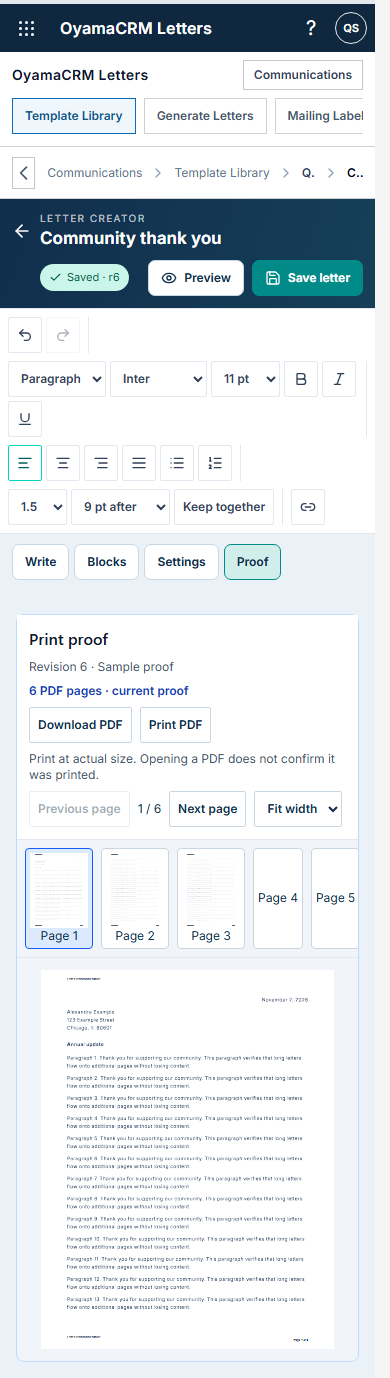
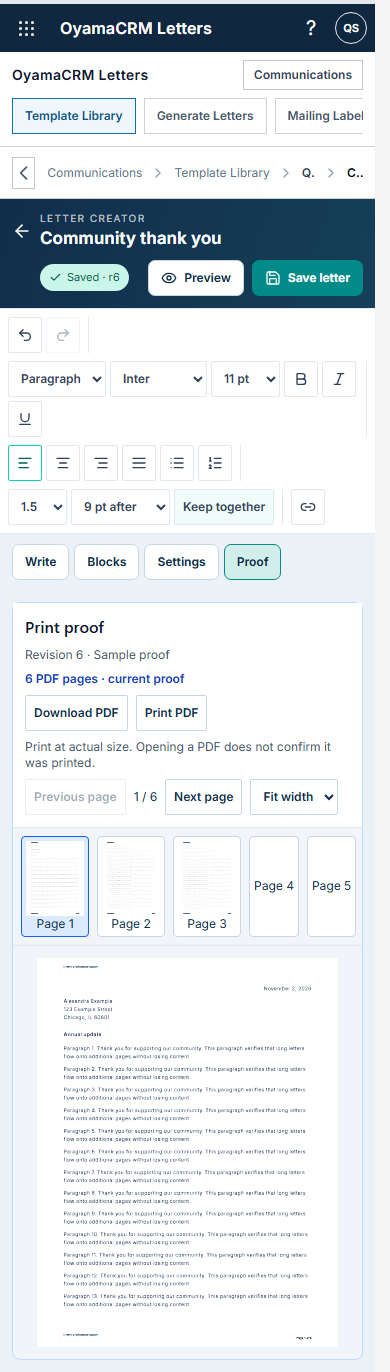
update

diff --git a/app/components/letters/OyamaLettersWorkspace.tsx b/app/components/letters/OyamaLettersWorkspace.tsx
@@ -15,6 +15,7 @@ import { openPdfPrintView } from "@/app/components/letters/pdf-print";
 import MatchingLabelsDownload from "@/app/components/letters/MatchingLabelsDownload";
 import MailMergeLabelsWorkspace from "@/app/components/letters/MailMergeLabelsWorkspace";
 import QRCode from "qrcode";
+import "./letter-proof-layout.css";
 import ProductionBuilder from "./production/ProductionBuilder";
 import {
   DEFAULT_BRANDING_SETTINGS,
@@ -1349,6 +1350,7 @@ function TemplateBuilder({ templateId }: { templateId?: string }) {
   const [editorPdfPageCount, setEditorPdfPageCount] = useState<number | null>(null);
   const [autoRefreshProof, setAutoRefreshProof] = useState(true);
   const editorPdfAbortRef = useRef<AbortController | null>(null);
+  const lastAutomaticProofRef = useRef<string | null>(null);
   const [canvasOverflowing, setCanvasOverflowing] = useState(false);
   const [aiComposerOpen, setAiComposerOpen] = useState(false);
   const [aiPrompt, setAiPrompt] = useState("");
@@ -1546,7 +1548,7 @@ function TemplateBuilder({ templateId }: { templateId?: string }) {
       constituentId,
       name: snapshot.name,
       printSubject: snapshot.printSubject,
-      printBody: snapshot.printBody,
+      printBody: typeof document === "undefined" ? snapshot.printBody : (() => { const element = document.createElement("div"); element.innerHTML = snapshot.printBody || "<p></p>"; return element.innerHTML; })(),
       printLayoutJson: snapshot.printLayoutJson,
       signatureBlockId: snapshot.signatureBlockId,
     });
@@ -2536,13 +2538,18 @@ function TemplateBuilder({ templateId }: { templateId?: string }) {
     && editorPdfFingerprint !== pdfPreviewFingerprint(draft, testConstituentId),
   );
 
+  const pendingProofFingerprint = pdfPreviewFingerprint(draft, testConstituentId);
   useEffect(() => {
     if (!autoRefreshProof || !editorPdfStale || editorPdfLoading || editorPdfError || !testConstituentId) return;
-    const timer = window.setTimeout(() => void openServerPdfPreview(testConstituentId, false), 1200);
+    if (lastAutomaticProofRef.current === pendingProofFingerprint) return;
+    const timer = window.setTimeout(() => {
+      lastAutomaticProofRef.current = pendingProofFingerprint;
+      void openServerPdfPreview(testConstituentId, false);
+    }, 1500);
     return () => window.clearTimeout(timer);
-    // Render only after the draft settles; failures require an explicit retry.
+    // The fingerprint captures all render inputs. UI-only state must not retrigger rendering.
     // eslint-disable-next-line react-hooks/exhaustive-deps
-  }, [autoRefreshProof, editorPdfStale, editorPdfLoading, editorPdfError, testConstituentId, draft]);
+  }, [autoRefreshProof, editorPdfStale, editorPdfLoading, editorPdfError, testConstituentId, pendingProofFingerprint]);
 
   useEffect(() => {
     const handleBeforeUnload = (event: BeforeUnloadEvent) => {
@@ -2951,7 +2958,8 @@ function TemplateBuilder({ templateId }: { templateId?: string }) {
             </details>
           </div>
         </aside>
-        <section className="order-2 min-w-0 overflow-auto rounded-md border border-slate-300 bg-slate-100 p-2 sm:p-5 lg:order-none">
+        <section className="letter-editor-proof-layout order-2 min-w-0 overflow-auto rounded-md border border-slate-300 bg-slate-100 p-2 sm:p-5 lg:order-none">
+          <div className="letter-writing-pane min-w-0">
           <div ref={canvasViewportRef} className="w-full min-w-0">
           <div className="mb-3 flex flex-wrap items-center gap-3 text-xs text-slate-700">
             <CheckField label="Fit canvas to width" checked={fitCanvas} onChange={setFitCanvas} />
@@ -3043,11 +3051,12 @@ function TemplateBuilder({ templateId }: { templateId?: string }) {
               Content continues below. Render the print proof to check automatic page breaks for the selected recipient, or use Add Page to choose a break.
             </div>
           ) : null}
-          <section aria-label="Print proof" className="mt-4 min-w-0 rounded-md border border-slate-300 bg-white p-3">
+          </div>
+          <section aria-label="Print proof" className="letter-inline-proof mt-4 min-w-0 rounded-md border border-slate-300 bg-white p-3">
             <div className="flex flex-wrap items-center justify-between gap-2">
               <div className="min-w-0">
                 <h2 className="text-sm font-semibold text-slate-900">Print proof</h2>
-                <p className="text-xs text-slate-600">Exact PDF pages for the selected recipient. Editing above uses a continuous canvas.</p>
+                <p className="text-xs text-slate-600">Exact PDF pages for the selected recipient. The writing canvas is continuous; this PDF shows printed page breaks.</p>
               </div>
               <Button onClick={() => void openServerPdfPreview(testConstituentId, false)} disabled={editorPdfLoading}>{editorPdfLoading ? "Rendering…" : "Refresh print proof"}</Button>
             </div>

diff --git a/app/components/letters/production/ProductionBuilder.tsx b/app/components/letters/production/ProductionBuilder.tsx
@@ -129,10 +129,11 @@ export default function ProductionBuilder({ templateId }: { templateId?: string 
     <div className="lb-studio">
       <aside className={`lb-left ${tab==="blocks"?"lb-mobile-visible":""}`}><BlockLibrary disabled={!editor} onInsert={insert}/><MergeFieldLibrary sections={sections} onInsert={token=>editor?.chain().focus().insertContent({type:"mergeField",attrs:{token:token.replace(/[{}]/g,"").trim()}}).run()}/></aside>
       <section className={`lb-canvas-column ${tab==="write"?"lb-mobile-visible":""}`}><div className="lb-canvas-caption"><span><FileText size={14}/>Document canvas</span><span>Continuous writing · PDF proof confirms page breaks</span></div><div className="lb-paper" style={{paddingTop:`${margins.top}in`,paddingBottom:`${margins.bottom}in`,paddingLeft:`${margins.left}in`,paddingRight:`${margins.right}in`}} onDragOver={event=>{if(event.dataTransfer.types.includes("application/oyama-letter-block"))event.preventDefault();}} onDrop={event=>{const block=event.dataTransfer.getData("application/oyama-letter-block");if(block){event.preventDefault();const position=editor?.view.posAtCoords({left:event.clientX,top:event.clientY});if(position)editor?.commands.setTextSelection(position.pos);insert(block);}}}><LetterEditor key={templateId || "new-letter"} initialContent={template.documentJson||template.printBody} onReady={ready} onChange={(html,json)=>{edits.current++;setBody({html,json});setDirty(true);}}/></div><div className="lb-canvas-footer"><span>{page.pageSize||"Letter (8.5 x 11 in)"}</span><span>{job?.pageCount?`${job.pageCount} proof pages${stale ? " · out of date" : ""}`:"Render proof to check pages"}</span></div></section>
+    <section ref={proofSection} className={`lb-proof-section ${tab==="proof"?"lb-mobile-visible":""}`} hidden={!url&&!busy&&tab!=="proof"}><LetterProofViewer url={url} stale={!!url&&stale} busy={busy} label={url ? `Revision ${proofIdentity?.revision ?? "—"} · ${contacts.find(contact=>contact.id===proofIdentity?.recipient)?.firstName || "Sample"} ${contacts.find(contact=>contact.id===proofIdentity?.recipient)?.lastName || "proof"}` : "No PDF rendered"}/></section>
       <aside className={`lb-inspector ${tab==="settings"?"lb-mobile-visible":""}`}><div className="lb-inspector-tabs">{["document","review"].map(value=><button type="button" key={value} aria-pressed={inspector===value} onClick={()=>setInspector(value)}>{value==="document"?<Settings2 size={15}/>:<Eye size={15}/>} {value}</button>)}</div>
       {inspector==="document"?<><LetterDocumentSettings pageSize={page.pageSize} margins={margins} onChange={updateLayout}/><BuilderCard title="Letterhead & signature"><p className="lb-help">Production letterhead, footer, and signer follow your organization's branding defaults.</p><Link className="lb-text-link" href="/settings/branding#letter-output-defaults">Manage letterhead and signature →</Link></BuilderCard></>:<BuilderCard title="Review checklist"><ReviewChecklist items={[{label:"Document title is set",ok:!!template.name.trim()},{label:"Latest changes saved",ok:!dirty&&!!template.id},{label:"Real recipient selected",ok:!!recipient},{label:"Current PDF proof ready",ok:!!url&&!stale}]}/><p className="lb-help">Review every printed page before generating or approving a batch.</p><Link className="lb-text-link" href="/oyama-letters/generate">Open letter generation →</Link></BuilderCard>}
       <BuilderCard title="Recipient preview">{contactError?<p role="alert" className="lb-help">{contactError} <BuilderButton onClick={()=>setContactAttempt(value=>value+1)}>Retry recipients</BuilderButton></p>:null}<label className="lb-field">CRM recipient<select aria-label="Proof recipient" value={recipient} onChange={e=>{setRecipient(e.target.value);serial.current++;proofAbort.current?.abort();setJob(null);setBusy(false);}}><option value="">Sample proof</option>{contacts.map(contact=><option key={contact.id} value={contact.id}>{contact.firstName} {contact.lastName}</option>)}</select></label><p className="lb-help">Select a real contact to verify personalized text and pagination.</p><p className="lb-help">Use Preview in the command bar to render the selected recipient.</p></BuilderCard></aside>
     </div>
-    <section ref={proofSection} className={`lb-proof-section ${tab==="proof"?"lb-mobile-visible":""}`} hidden={!url&&!busy&&tab!=="proof"}><LetterProofViewer url={url} stale={!!url&&stale} busy={busy} label={url ? `Revision ${proofIdentity?.revision ?? "—"} · ${contacts.find(contact=>contact.id===proofIdentity?.recipient)?.firstName || "Sample"} ${contacts.find(contact=>contact.id===proofIdentity?.recipient)?.lastName || "proof"}` : "No PDF rendered"}/></section>
+
   </main>;
 }

diff --git a/app/components/letters/production/letter-production.css b/app/components/letters/production/letter-production.css
@@ -22,3 +22,12 @@
 @media(max-width:900px){.lb-command{gap:8px;padding:12px;flex-wrap:wrap}.lb-title input{font-size:17px}.lb-actions{margin-left:auto}.lb-studio{display:block;padding:12px}.lb-left,.lb-canvas-column,.lb-inspector,.lb-proof-section{display:none}.lb-mobile-visible{display:block}.lb-left.lb-mobile-visible,.lb-inspector.lb-mobile-visible{display:flex}.lb-paper{padding:24px!important;min-height:600px}.lb-mobile-tabs{display:flex;gap:5px;padding:10px 12px;overflow:auto}.lb-mobile-tabs .lb-button{text-transform:capitalize}.lb-mobile-tabs [aria-pressed=true]{background:#d2eeeb;border-color:#008b89}.lb-canvas-caption{flex-wrap:wrap}.lb-block-grid{grid-template-columns:1fr 1fr}}
 
 @media(max-width:900px){.lb-command>.lb-title{flex:1 1 calc(100% - 48px)}.lb-command>a{flex-shrink:0}.lb-command>.lb-status{margin-left:28px}}
+
+/* One proof instance: stacked until the actual studio has enough room. */
+.lb-studio>.lb-proof-section{grid-column:1/-1;order:4;padding:0}
+.lb-studio>.lb-inspector{order:3}
+@media(min-width:2000px){
+ .lb-studio{grid-template-columns:220px minmax(0,1fr) minmax(0,1fr) 260px;align-items:start}
+ .lb-studio>.lb-proof-section{grid-column:auto;order:0;position:sticky;top:12px}
+ .lb-studio>.lb-inspector{order:0}
+}

diff --git a/app/components/letters/letter-proof-layout.css b/app/components/letters/letter-proof-layout.css
@@ -1,0 +1,7 @@
+.letter-editor-proof-layout{container-type:inline-size}
+@container (min-width:1250px){
+ .letter-writing-pane{width:calc(50% - 10px);float:left}
+ .letter-inline-proof{width:calc(50% - 10px);margin-top:0!important;margin-left:calc(50% + 10px);position:sticky;top:0}
+ .letter-inline-proof object{height:80dvh}
+}
+.letter-editor-proof-layout:after{content:"";display:block;clear:both}

diff --git a/docs/status/audit-artifacts/2026-11-02-module-ui-pass/verification.md b/docs/status/audit-artifacts/2026-11-02-module-ui-pass/verification.md
@@ -1,0 +1,20 @@
+# Module UI clarity and stale-state pass — 2026-11-02
+
+Four distinct subagents reviewed Letters, Email, Donor CRM and Donor Profiles. Changes preserve existing routes and server authorization.
+
+## Delivered
+
+- Letters: template access no longer depends on recipient lookup success; independent lookup/template retries; accurate New draft status; upload pending state blocks overlapping upload/save/preview; stale page counts identified; original-PDF actions require a loaded document.
+- Email: removed recipient preview overwrites by generic saved HTML, added request cancellation/identity checks and timeout feedback, blocked dirty test sends, saved current content before printable conversion. Sender/SMTP settings links to organization settings; compliance text describes readiness rather than fake editable controls.
+- Donor CRM: superseded directory requests abort; quick views no longer imply active filtering when hidden search/period filters differ; selecting a quick view resets those hidden constraints; dashboard distinguishes refreshing/unavailable data.
+- Donor profiles: identity-keyed page resets tabs/dialogs/data, cancelled profile/merge-history requests, visible Retry profile error state. Letter history distinguishes failed loading from empty history. Email preferences reset for donor/email and failed loads block editing unknown defaults.
+
+## Verification
+
+Web and server TypeScript checks passed. Targeted lint passes for donor/profile/letter files. Email targeted lint has no errors and five existing warnings. Focused donor browse/dashboard and Email render/conversion suites: 35 tests pass. Separate letter assets/pagination/document/conversion selection: 12 tests pass. The updated Letters browser fixture passes.
+
+A synthetic module browser run verified directory quick-view state/reset and Email's canonical SMTP link. A subsequent expanded run reached simulated profile failure, Retry profile, and recovered QA Individual content; the recovered screenshot was visually reviewed. The expanded run failed its final no-page-errors assertion because intermittent local dev compilation produced `Invalid or unexpected token`; therefore there is no clean combined browser sign-off. Screenshots are fixture evidence, not live records. Earlier results.json covers the initial three checks only.
+
+The Email agent also ran a broader smoke selection with 26 passing and two pre-existing donor source-label assertion failures (old labels Send To Email Workspace / Use Email Template). Those source assertions were not weakened in this pass.
+
+No live email sends, database writes, deployment, or production API validation were performed. Actual outbound delivery and multi-user concurrency remain unverified.

diff --git a/docs/status/features.md b/docs/status/features.md
@@ -1522,3 +1522,17 @@ Repaired palette paragraph/heading insertion, synchronized toolbar selection sta
 ### Canonical structured-letter tools and PDF checks — 2026-11-02
 
 Consolidated structural insertion in the block library, formatting in the toolbar, paper/margins in Document settings, and PDF navigation/download/print in the proof viewer. Branding retains its existing organization home. Fixed stale-proof identity/cancellation and renderer asset/signature/chrome checks; renderer v2.1 invalidates old fingerprints. 85 focused tests, types, lint and synthetic browser regression pass, including downloaded PDF byte equality. New canonical desktop/mobile screenshots and remaining limits are recorded in `audit-artifacts/2026-11-02-letter-builder/verification.md`. Live automation, approval/batch workflows and physical printing remain unverified.
+
+
+### Four-module stale/confusing UI pass — 2026-11-02
+
+Dedicated Letters, Email, Donor CRM and Donor Profiles subagent passes improve request cancellation, accurate saved/loading/failed states, retry controls, hidden-filter clarity and canonical SMTP navigation. Web/server types and targeted checks pass; combined browser certification is limited by intermittent local development chunk errors. See [module verification](audit-artifacts/2026-11-02-module-ui-pass/verification.md) for changes, screenshots and exact verification limits. No live sends or deployment.
+
+
+### Wide-screen print proof and refresh stability — 2026-11-02
+
+The ribbon builder now positions its existing proof beside the writing pane when its actual editor container is at least 1250px wide. Narrower layouts remain stacked. The structured builder places the same proof viewer beside the canvas on screens at least 2000px wide, preserving one viewer instance across breakpoints.
+
+Ribbon proof fingerprints normalize draft HTML through the same browser serialization used by the editable canvas. Automatic refresh waits 1.5 seconds after input settles and attempts each pending fingerprint only once, preventing HTML normalization differences from triggering an endless refresh/reload cycle. Failed attempts require manual refresh. The old PDF remains visible while a replacement is rendering.
+
+Web TypeScript passed; targeted lint has no errors and the ribbon's existing warning baseline. The structured browser fixture passed, including an asserted side-by-side geometry check at 2400px; screenshot: `docs/status/audit-artifacts/2026-11-02-letter-builder/wide-side-by-side-proof.png`. Two print/layout suites passed. The broader source-contract test has three stale UI-copy expectations; it was not weakened. The legacy refresh loop fix has not been verified against the user's live template/API.

diff --git a/docs/status/production-readiness-checklist.md b/docs/status/production-readiness-checklist.md
@@ -1293,3 +1293,17 @@ Repaired palette paragraph/heading insertion, synchronized toolbar selection sta
 ### Canonical structured-letter tools and PDF checks — 2026-11-02
 
 Consolidated structural insertion in the block library, formatting in the toolbar, paper/margins in Document settings, and PDF navigation/download/print in the proof viewer. Branding retains its existing organization home. Fixed stale-proof identity/cancellation and renderer asset/signature/chrome checks; renderer v2.1 invalidates old fingerprints. 85 focused tests, types, lint and synthetic browser regression pass, including downloaded PDF byte equality. New canonical desktop/mobile screenshots and remaining limits are recorded in `audit-artifacts/2026-11-02-letter-builder/verification.md`. Live automation, approval/batch workflows and physical printing remain unverified.
+
+
+### Four-module stale/confusing UI pass — 2026-11-02
+
+Dedicated Letters, Email, Donor CRM and Donor Profiles subagent passes improve request cancellation, accurate saved/loading/failed states, retry controls, hidden-filter clarity and canonical SMTP navigation. Web/server types and targeted checks pass; combined browser certification is limited by intermittent local development chunk errors. See [module verification](audit-artifacts/2026-11-02-module-ui-pass/verification.md) for changes, screenshots and exact verification limits. No live sends or deployment.
+
+
+### Wide-screen print proof and refresh stability — 2026-11-02
+
+The ribbon builder now positions its existing proof beside the writing pane when its actual editor container is at least 1250px wide. Narrower layouts remain stacked. The structured builder places the same proof viewer beside the canvas on screens at least 2000px wide, preserving one viewer instance across breakpoints.
+
+Ribbon proof fingerprints normalize draft HTML through the same browser serialization used by the editable canvas. Automatic refresh waits 1.5 seconds after input settles and attempts each pending fingerprint only once, preventing HTML normalization differences from triggering an endless refresh/reload cycle. Failed attempts require manual refresh. The old PDF remains visible while a replacement is rendering.
+
+Web TypeScript passed; targeted lint has no errors and the ribbon's existing warning baseline. The structured browser fixture passed, including an asserted side-by-side geometry check at 2400px; screenshot: `docs/status/audit-artifacts/2026-11-02-letter-builder/wide-side-by-side-proof.png`. Two print/layout suites passed. The broader source-contract test has three stale UI-copy expectations; it was not weakened. The legacy refresh loop fix has not been verified against the user's live template/API.
